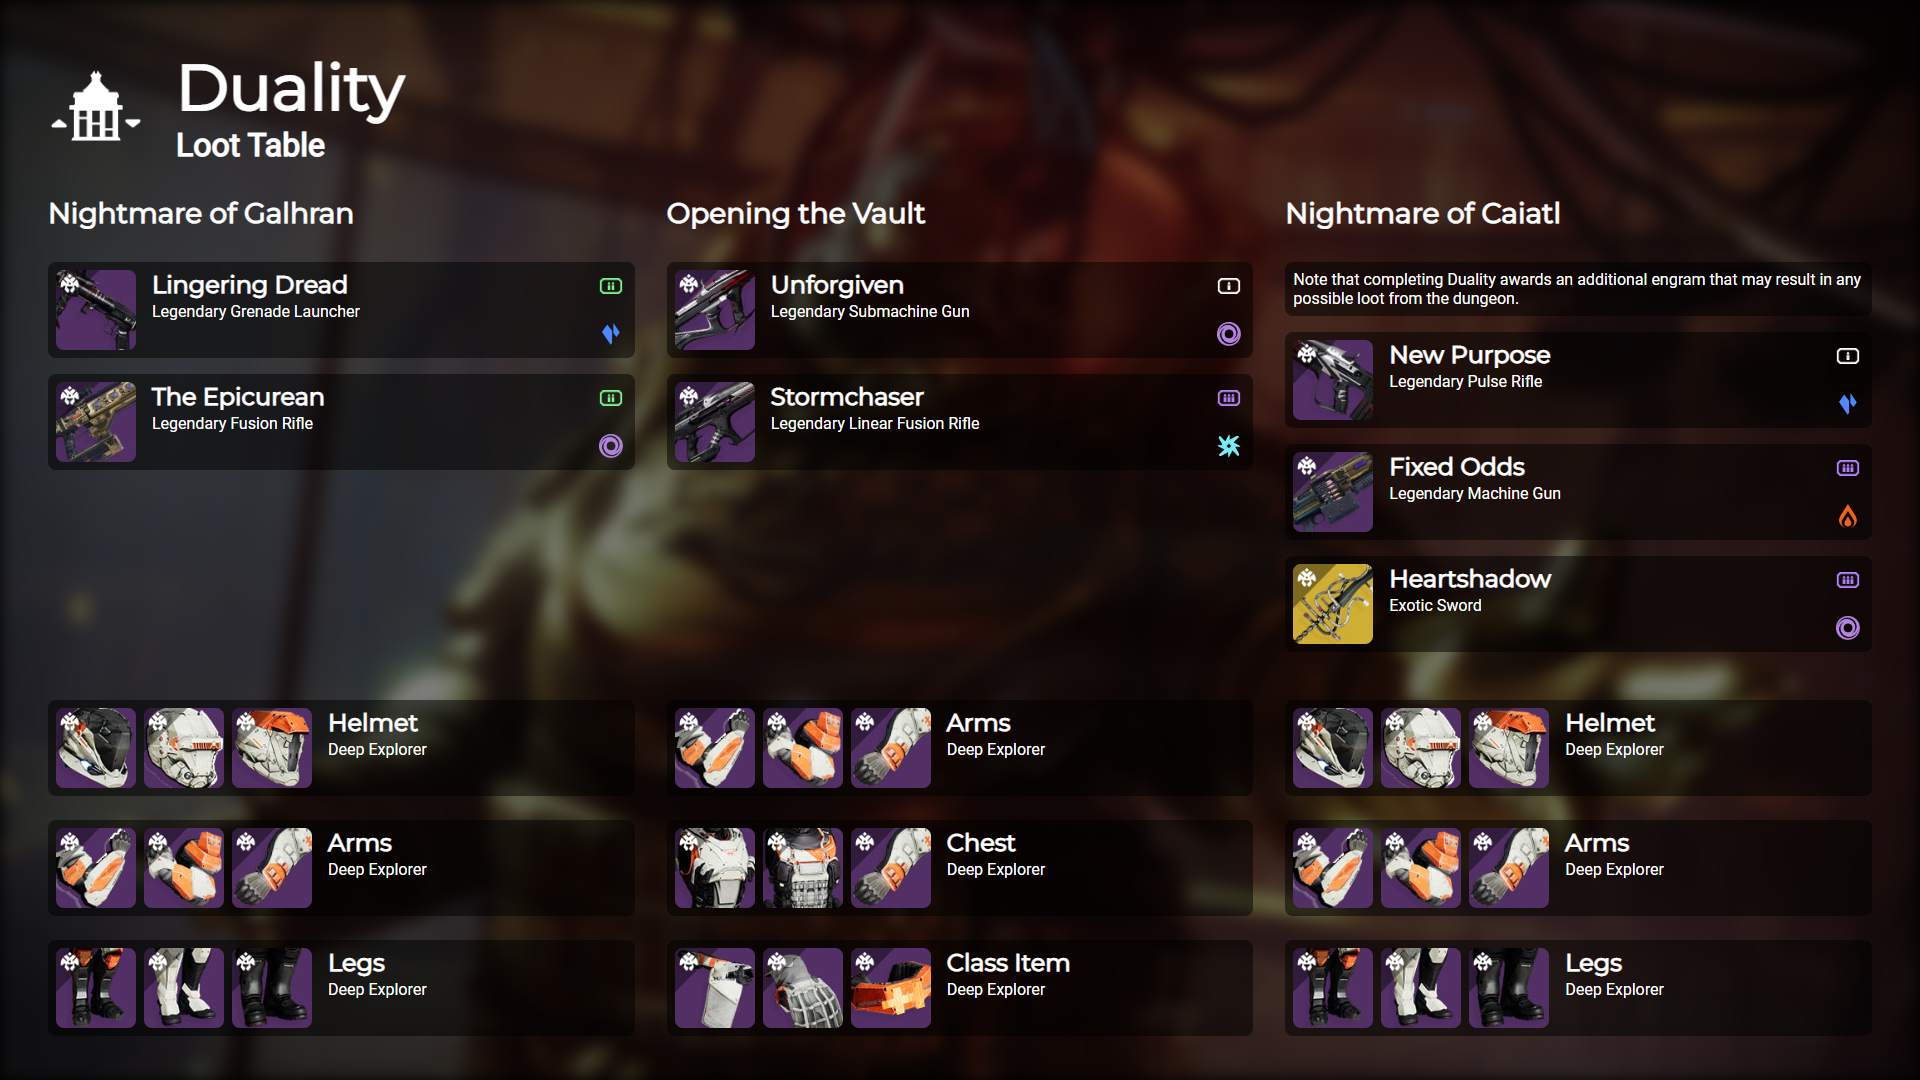
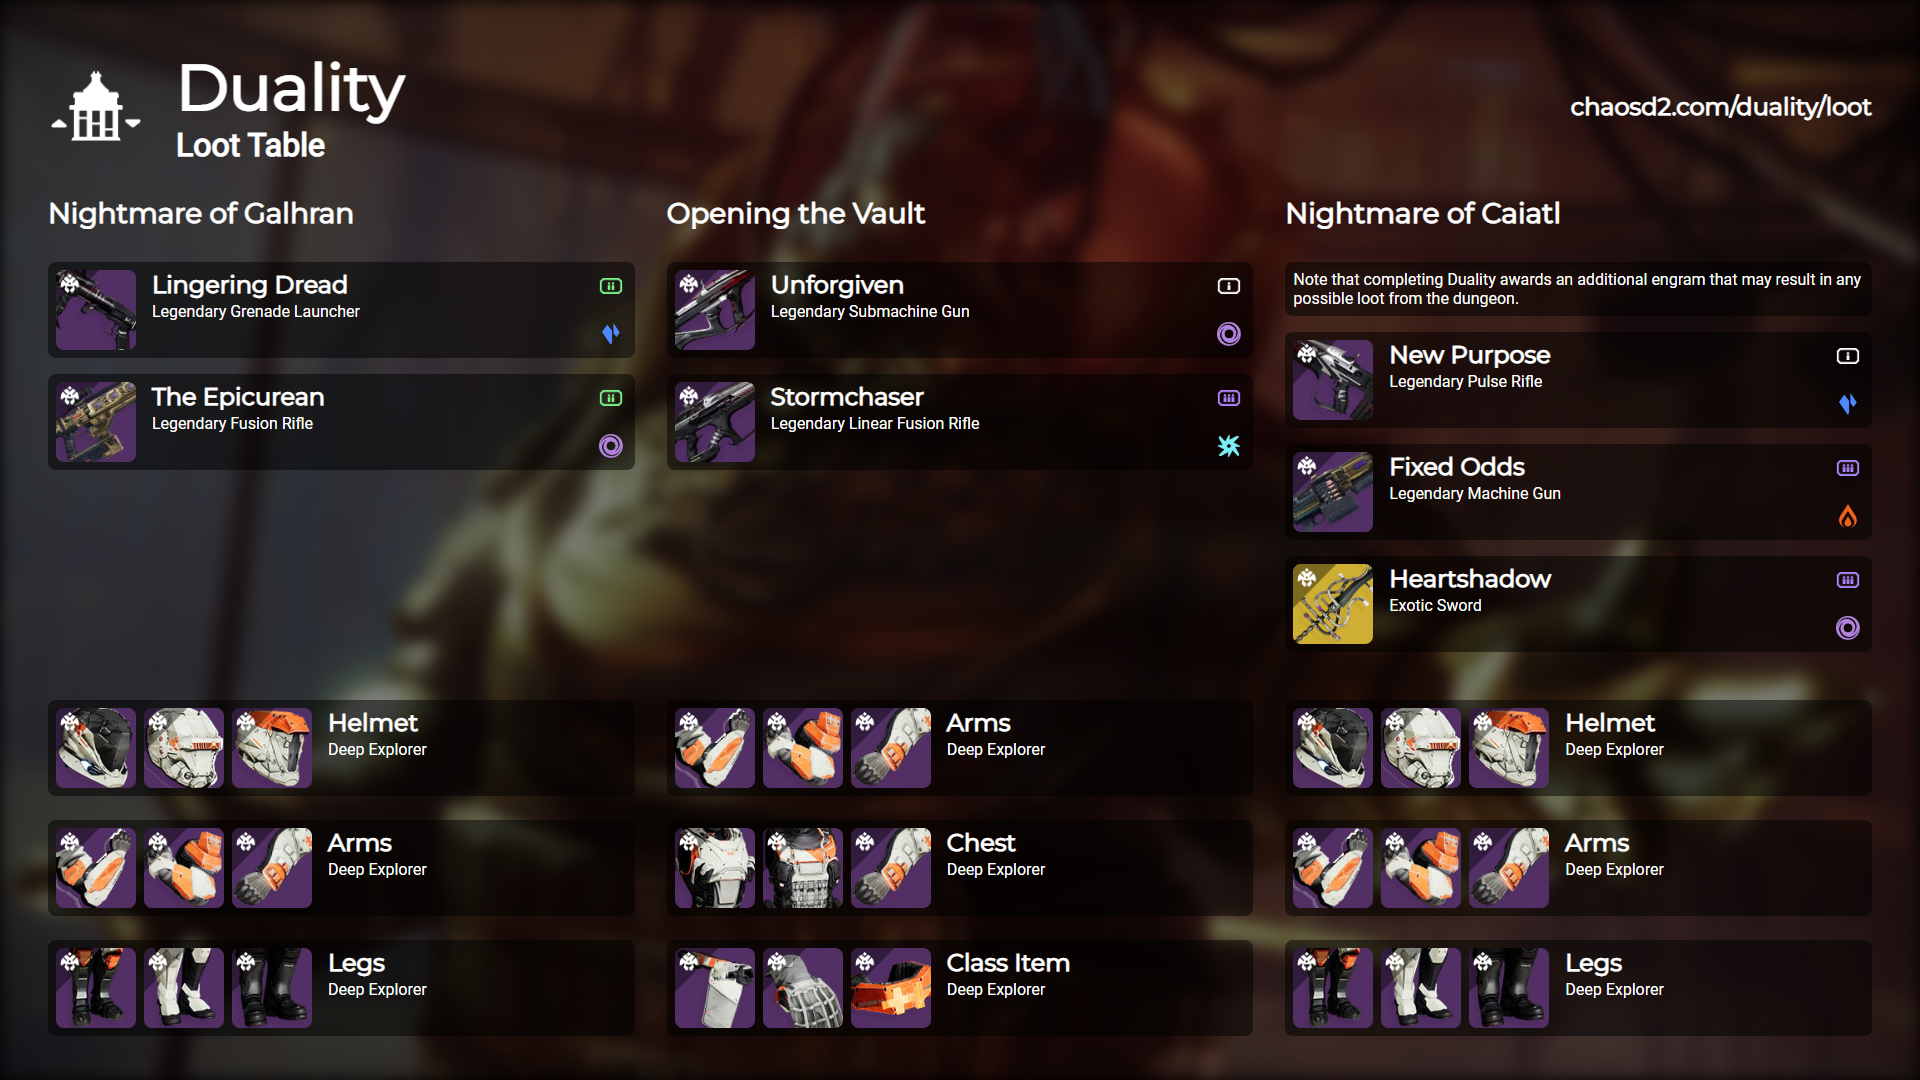
Added watermark to duality page

diff --git a/app/image_sources/dungeons/duality/loot/page.js b/app/image_sources/dungeons/duality/loot/page.js
@@ -10,8 +10,11 @@ export default async function LootPage() {
                 <div className={styles.header}>
                     <img className={styles.logo} src={BungieIcons.dungeons.duality} alt={""}/>
                     <div className={styles.header_text}>
-                        <h1 className={styles.title}>Duality</h1>
-                        <p className={styles.subtitle}>Loot Table</p>
+                            <h1 className={styles.title}>Duality</h1>
+                            <p className={styles.subtitle}>Loot Table</p>
+                    </div>
+                    <div className={styles.watermark}>
+                        <h2>chaosd2.com/duality/loot</h2>
                     </div>
                 </div>
                 <div className={styles.content}>

diff --git a/app/image_sources/dungeons/duality/loot/styles.module.css b/app/image_sources/dungeons/duality/loot/styles.module.css
@@ -8,7 +8,7 @@
 .main::before {
     content: "";
     background-image: url("../../../../../public/images/backgrounds/duality.jpg");
-    background-size: cover;
+    background-size: 110%;
     background-position: center;
     background-attachment: fixed;
     background-repeat: no-repeat;
@@ -75,3 +75,7 @@
     margin-bottom: 1rem;
 }
 
+.watermark {
+    display: flex;
+    margin-left: auto;
+}
